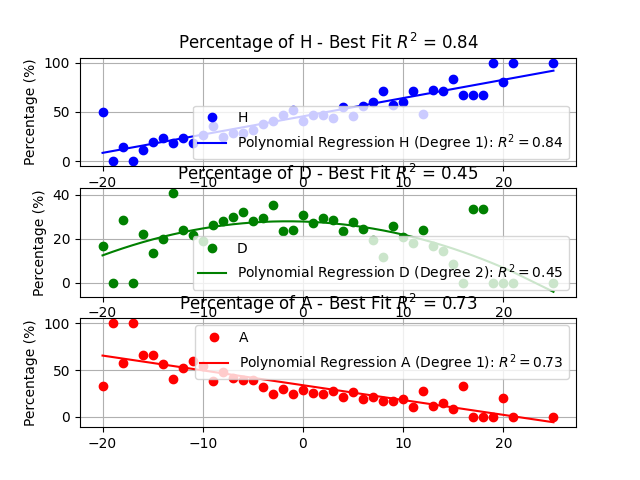
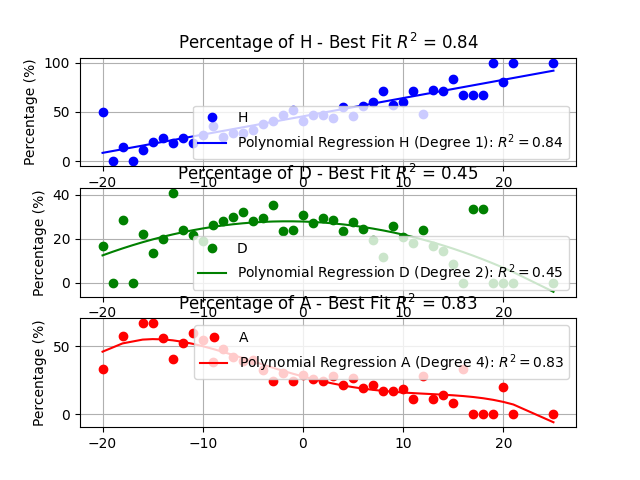
remove the outliers match ratings

diff --git a/Src/regression_polynomial.py b/Src/regression_polynomial.py
@@ -7,7 +7,7 @@ from sklearn.metrics import r2_score
 class RegressionPolynomial:
     def __init__(self, league_name, stats, match_rating, range):
         """
-        Constructor method to initialize the class with league name, statistics type,
+        Initialize the class with league name, statistics type,
         match rating dictionary, and range for match ratings.
         """
         self.league_name = league_name
@@ -15,12 +15,12 @@ class RegressionPolynomial:
         self.match_rating = match_rating
         self.range = range
         
-    def transform_match2percentages(self):
+    def _transform_match2percentages(self):
         """
         Converts the match rating data (home, draw, away) into percentages and stores them
         in self.H_perc, self.D_perc, and self.A_perc arrays.
         """
-        self.keys = np.array(list(self.match_rating.keys()))  # Convert keys to NumPy array for regression
+        self.keys = np.array(list(self.match_rating.keys())) 
         H_perc = []
         D_perc = []
         A_perc = []
@@ -28,7 +28,7 @@ class RegressionPolynomial:
         # Calculate percentages for Home (H), Draw (D), and Away (A)
         for key in self.keys:
             values = self.match_rating[key]
-            total = sum(values.values())  # Sum of H, D, A
+            total = sum(values.values())  
             if total > 0:
                 H_perc.append((values['H'] / total) * 100)
                 D_perc.append((values['D'] / total) * 100)
@@ -43,7 +43,22 @@ class RegressionPolynomial:
         self.D_perc = np.array(D_perc)
         self.A_perc = np.array(A_perc)
         
-    def find_best_polynomial_fit(self, X, y, max_degree=4, threshold=0.05):
+    def _remove_outliers(self, X, y):
+        q1 = np.percentile(y, 25)
+        q3 = np.percentile(y, 75)
+        irq = q3 - q1
+        
+        inferior_limit = q1 - 1.5 * irq
+        superior_limit = q3 + 1.5 * irq
+        
+        filter = (y >= inferior_limit) & (y <= superior_limit)
+        
+        X_without_outliers = X[filter]
+        y_without_outliers = y[filter]
+        
+        return X_without_outliers, y_without_outliers
+                
+    def _find_best_polynomial_fit(self, X, y, max_degree=4, threshold=0.05):
         """
         Finds the best polynomial fit for the given data X and y by testing polynomials 
         up to a specified degree. Returns the best model, the degree, and the R² score.
@@ -73,7 +88,7 @@ class RegressionPolynomial:
             
         return best_model, best_degree, best_r2 
 
-    def plot_regression(self, keys, match_percentages, color, label):
+    def _plot_regression(self, keys, match_percentages, color, label):
         """
         Plots the data points and fits a polynomial regression curve to them.
         Displays the best polynomial fit and its R² score.
@@ -81,7 +96,7 @@ class RegressionPolynomial:
         plt.plot(keys, match_percentages, f'{color}o', label=label)  # Plot original data points
     
         # Find the best polynomial fit
-        best_model, best_degree, best_r2 = self.find_best_polynomial_fit(X=keys, y=match_percentages)
+        best_model, best_degree, best_r2 = self._find_best_polynomial_fit(X=keys, y=match_percentages)
         
         # Apply polynomial transformation and predict the fit
         poly = PolynomialFeatures(degree=best_degree)
@@ -105,26 +120,29 @@ class RegressionPolynomial:
         Optionally displays the graphs if show_graphs is set to True.
         """
         plt.subplot(3, 1, 1)
-        best_model_H, best_degree_H, best_r2_H = self.plot_regression(keys=self.keys, match_percentages=self.H_perc, color='b', label='H')
+        keys, H_perc = self._remove_outliers(X=self.keys, y=self.H_perc)
+        best_model_H, best_degree_H, best_r2_H = self._plot_regression(keys=keys, match_percentages=H_perc, color='b', label='H')
         
         plt.subplot(3, 1, 2)
-        best_model_D, best_degree_D, best_r2_D = self.plot_regression(keys=self.keys, match_percentages=self.D_perc, color='g', label='D')
+        keys, D_perc = self._remove_outliers(X=self.keys, y=self.D_perc)
+        best_model_D, best_degree_D, best_r2_D = self._plot_regression(keys=keys, match_percentages=D_perc, color='g', label='D')
 
         plt.subplot(3, 1, 3)
-        best_model_A, best_degree_A, best_r2_A = self.plot_regression(keys=self.keys, match_percentages=self.A_perc, color='r', label='A')
+        keys, A_perc = self._remove_outliers(X=self.keys, y=self.A_perc)
+        best_model_A, best_degree_A, best_r2_A = self._plot_regression(keys=keys, match_percentages=A_perc, color='r', label='A')
         
-        # Save the graph as a PNG file
+        # Save the graph 
         plt.savefig(fr'D:\LUCAS\Match Rating\Database\{ self.league_name }\Graphs\{ self.stats }.png')
         
         if show_graphs:
             plt.tight_layout()
-            plt.show()  # Show the graphs if requested
+            plt.show()  
         
         plt.close()  # Close the figure to free up memory
         
         return best_model_H, best_model_D, best_model_A
     
-    def __fix_percentages(self, H, D, A):
+    def _fix_percentages(self, H, D, A):
         """
         Helper method to adjust the percentages of H, D, and A to be non-negative and normalized to 100%.
         """
@@ -172,9 +190,9 @@ class RegressionPolynomial:
             H_pred = f(x, interc_h, coefs_h)
             D_pred = f(x, interc_d, coefs_d)
             A_pred = f(x, interc_a, coefs_a)
-            
+                
             # Adjust percentages
-            H_perc, D_perc, A_perc = self.__fix_percentages(H_pred, D_pred, A_pred)
+            H_perc, D_perc, A_perc = self._fix_percentages(H_pred, D_pred, A_pred)
             
             # Save to results dictionary
             resultados[x] = {'H': round(H_perc, 2), 'D': round(D_perc, 2), 'A': round(A_perc, 2)}
@@ -188,6 +206,6 @@ class RegressionPolynomial:
         2. Generate graphs and save them.
         3. Re-adjust match ratings using the best polynomial models.
         """
-        self.transform_match2percentages()  # Convert match ratings to percentages
+        self._transform_match2percentages()  # Convert match ratings to percentages
         best_model_H, best_model_D, best_model_A = self.graphs(show_graphs)  # Generate graphs and return best models
         return self.reajust_match_ratings(best_model_H, best_model_D, best_model_A, self.range[0], self.range[1])  # Re-adjust ratings

diff --git a/Src/main.py b/Src/main.py
@@ -29,10 +29,8 @@ def main(league_name, match_rating_path):
         for stats in ['Gols','Target Shoots']:
             match_rat = MatchRating(matchs_rating=matchs_rating, estatistic=stats)
             match_rat.get_columns()
-            match_rat.get_match_rating(data=df)
-            
+            match_rat.get_match_rating(data=df) 
     
-            
     rp_gols = RegressionPolynomial(league_name=league_name,
                                         stats='Gols',
                                         match_rating=dict(sorted(matchs_rating['Gols'].items())),
